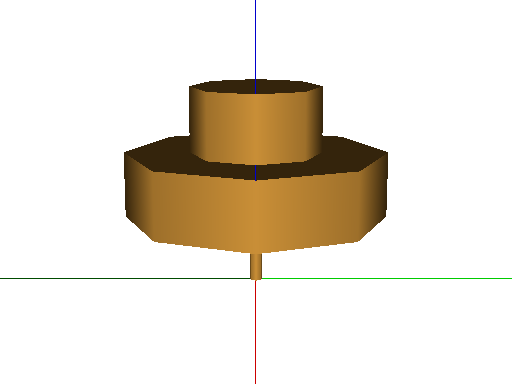
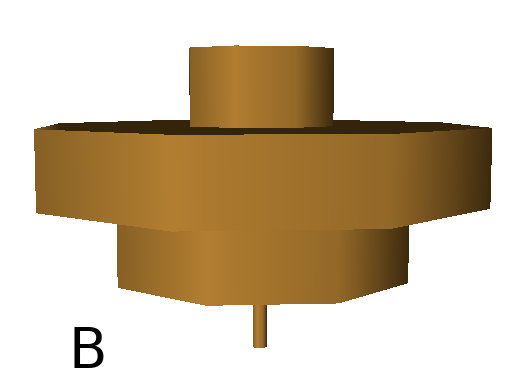
Width part improved

diff --git a/doc/user/turtle.rst b/doc/user/turtle.rst
@@ -102,22 +102,22 @@ Some useful tools
 *Changing the width*
 --------------------
 
-The width of the shapes can be increased (resp. decreased) using **_** (resp. **!**). These primitives increment or decrement width by 1. The default width is 0.1
+The width of the shapes can be increased (resp. decreased) using **_** (resp. **!**). These primitives increment or decrement width by 1. The default width is 0.1.
 
 .. code-block:: python
 
-	Axiom: F_ _ _F!F!F 	#At the beginning, the cylinder has a width of 0.1 (default) then 3.1, then 2.1 and finally 1.1
+	Axiom: F_ _ _F!F!F 	#At the beginning, the cylinder has a width of 0.1 (default) then 3.1, then 2.1 and finally 1.1 (Fig. A)
 
-+---------------------------------+
-| .. image:: ../_images/width.png |
-|    :scale: 120%                 |
-+---------------------------------+
++---------------------------------+----------------------------------+
+| .. image:: ../_images/width.png | .. image:: ../_images/width2.png |
+|    :scale: 60%                  |    :scale: 60%                   |
++---------------------------------+----------------------------------+
 
 Alternatively, the width can be set using **setWidth** or by giving argument to **_** or **!**
 
 .. code-block:: python
 
-	Axiom : F_(3)F!(2)F!(1)F 	#Same result as above
+	Axiom: F_(2)F!(3)F!(1)F 	#(Fig. B)
 
 Download the example : :download:`width.lpy <../_downloads/width.lpy>`
 
@@ -161,6 +161,7 @@ The first way is to specify the index of the material (Fig. A) and the second wa
 
 The last manner to use the color system is the method **InterpolateColors**, it mixes up two colors in one.
 There are three arguments, the first and the second are the index of materials and the last is optional and it sets a priority to the first or the second color in order to make the final color.
+There are two examples below.
 
 .. code-block:: python
 
@@ -170,15 +171,28 @@ There are three arguments, the first and the second are the index of materials a
 		Axiom:
 		  d = 0.0
 		  for i in range(Step):
-		    nproduce InterpolateColors(3, 5, d) F(0.1)
+		    nproduce InterpolateColors(3, 5, d) F(0.1) 		#(Fig. A)
 		    d += DIncr
 		  produce ;(2) @O(0.15)
 
+	#Other example
+
+		Step = 20
+		DIncr = 1.0 / Step
+
+		Axiom:
+  			d = 0.0
+  			for i in range(Step):
+    		nproduce InterpolateColors(2, 5, d) F(0.1) 		#(Fig. B)
+    		d += DIncr
+  			produce ;(1) @O(0.15)
+
 Download the example : :download:`color.lpy <../_downloads/color.lpy>`
 
-+---------------------------------------------+
-| .. image:: ../_images/interpolateColors.png |
-+---------------------------------------------+
++---------------------------------------------+----------------------------------------------+
+| .. image:: ../_images/interpolateColors.png | .. image:: ../_images/interpolateColors2.png | 
+|    :scale: 50%                              |    :scale: 50%                               |
++---------------------------------------------+----------------------------------------------+
 
 Primitive combinations
 ======================
@@ -216,6 +230,8 @@ Primitives can be used to rotate the Turtle in its current reference frame (H = 
     Axiom: Frame(2) +(60) Frame(2)     # Turn left arround the U axis. 	(Fig. E)
 
     Axiom: Frame(2) -(60) Frame(2) 	 # Turn right arround the U axis. 	(Fig. F)
+
+Download the example : :download:`rotation.lpy <../_downloads/rotation.lpy>`
 
 +-------------------------------------+-------------------------------------+-------------------------------------+
 | .. image:: ../_images/rotation1.png | .. image:: ../_images/rotation2.png | .. image:: ../_images/rotation3.png |
